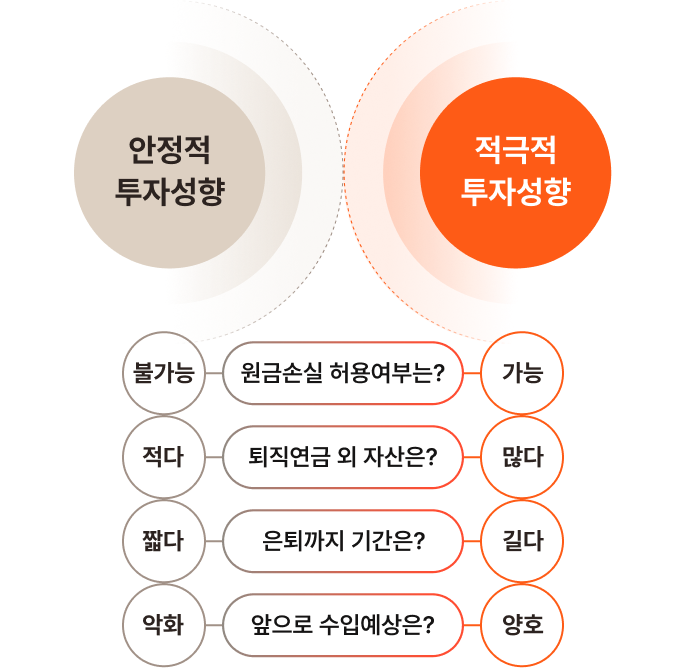
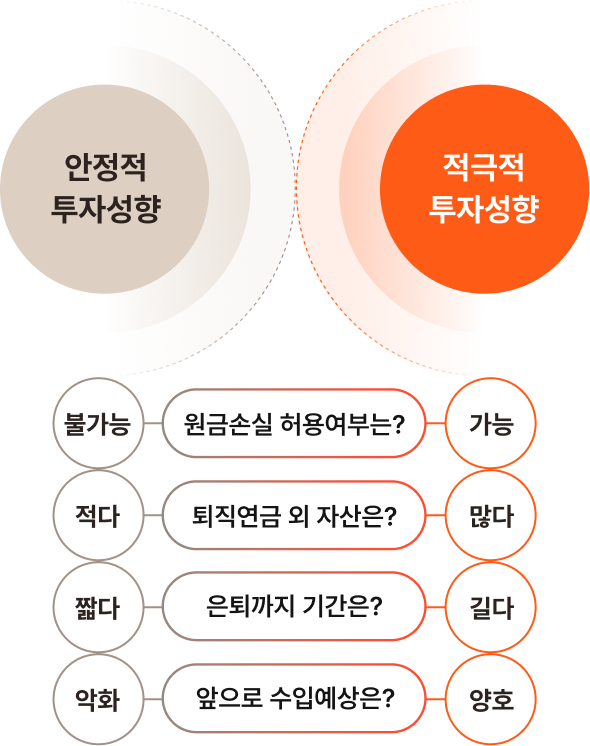
수정 반영

diff --git a/src/pages/ko/FD_02_03_01T.html b/src/pages/ko/FD_02_03_01T.html
@@ -20,10 +20,10 @@
 							<p class="tit">TDF</p>
 							<p class="desc">한화자산운용이 자랑하는 연금 운용 노하우, <br/> 한화 연금 펀드를 소개합니다.</p>
 						</div> 
-						<div class="img-wrap">
-							<img src="~@/assets/images/fund/pension-tdf-visual.png" alt="" class="pc-only">
-							<img src="~@/assets/images/fund/mo-pension-tdf-visual.png" alt="" class="tablet-mobile-only">
-						</div>
+					</div>
+					<div class="img-wrap">
+						<img src="~@/assets/images/fund/pension-tdf-visual.png" alt="" class="pc-only">
+						<img src="~@/assets/images/fund/mo-pension-tdf-visual.png" alt="" class="tablet-mobile-only">
 					</div>
 				</section>
 				<section class="section-detail">
@@ -421,12 +421,10 @@
 										</p>
 										<div class="gray-box">
 											<div class="group-wrap spacing-lg">
-												<p class="tit-xsm txt-center">환오픈(Unhedged) 및 환헤지(Hedged)시 글로벌 주식 성과</p>
-												<div class="img-box scroll">
-													<div class="img-wrap img-point-discriminate-01">
-														<img src="~@/assets/images/fund/pension-point-discriminate-01.png" alt="" class="pc-tablet-only">
-														<img src="~@/assets/images/fund/mo-pension-point-discriminate-01.png" alt="" class="mobile-only">
-													</div>
+												<p class="tit-xsm txt-center">환오픈(Unhedged) 및 환헤지<br class="tablet-mobile-only"/>(Hedged)시 글로벌 주식 성과</p>
+												<div class="img-wrap img-point-discriminate-01">
+													<img src="~@/assets/images/fund/pension-point-discriminate-01.png" alt="" class="pc-tablet-only">
+													<img src="~@/assets/images/fund/mo-pension-point-discriminate-01.png" alt="" class="mobile-only">
 												</div>
 											</div>
 										</div>
@@ -468,11 +466,9 @@
 											<div class="gray-box">
 												<div class="group-wrap spacing-lg">
 													<p class="tit-xsm txt-center">한화 TDF 헤지전략 성과추이</p>
-													<div class="img-box scroll">
-														<div class="img-wrap">
-															<img src="~@/assets/images/fund/pension-point-discriminate-03.png" alt="" class="pc-tablet-only">
-															<img src="~@/assets/images/fund/mo-pension-point-discriminate-03.png" alt="" class="mobile-only">
-														</div>
+													<div class="img-wrap img-point-discriminate-03">
+														<img src="~@/assets/images/fund/pension-point-discriminate-03.png" alt="" class="pc-tablet-only">
+														<img src="~@/assets/images/fund/mo-pension-point-discriminate-03.png" alt="" class="mobile-only">
 													</div>
 												</div>
 											</div>
@@ -487,7 +483,7 @@
 						<%- include('../../components/tab.ejs', {
 							active: 0,
 							variant: 'line',
-							tablist: ['About TDF', '한화 LIFEPLUS TDF 투자포인트'],
+							tablist: ['About TDF', '<span class="pc-tablet-only">한화 LIFEPLUS TDF</span> 투자포인트'],
 							contents: [content1, content2],
 						}) -%>
 					</div>

diff --git a/src/assets/scss/page/_fund.scss b/src/assets/scss/page/_fund.scss
@@ -3094,7 +3094,10 @@
 				height: 100%;
 
 				img{
-					width: 100%;
+					position: absolute;
+					top: 0;
+					right: 0;
+					// width: 100%;
 					height: 100%;
 					object-fit: cover;
 				}
@@ -3107,7 +3110,7 @@
 				height: auto;
 
 				.inner{
-					padding-top: 36rem;
+					// padding-top: 36rem;
 				}
 
 				.txt-wrap{
@@ -3117,12 +3120,17 @@
 					width: calc(100% + var(--#{$prefix}-content-padding-x) * 2);
 				}
 				.img-wrap{
-					height: 42.4rem;
-					// position: relative;
-					// order: -1;
-					// margin: 0 calc(var(--#{$prefix}-content-padding-x) * -1);
-					// width: calc(100% + var(--#{$prefix}-content-padding-x) * 2);
-					// height: 36rem;
+					// height: 42.4rem;
+					position: relative;
+					order: -1;
+					margin: 0 calc(var(--#{$prefix}-content-padding-x) * -1);
+					width: calc(100% + var(--#{$prefix}-content-padding-x) * 2);
+					height: 60rem;
+
+					img{
+						width: 100%;
+						height: auto;
+					}
 				}
 			}
 			@include mq(mobile){
@@ -3140,6 +3148,9 @@
 					&::after{
 						margin-top: 2.4rem;
 					}
+				}
+				.img-wrap{
+					height: 42.4rem;
 				}
 			}
 		}
@@ -3358,6 +3369,7 @@
 				),
 				'point-passive-01': (
 					pc: 107.6rem,
+					tablet: 50rem,
 					mo: 34.3rem 
 				),
 				'point-passive-02': (
@@ -3397,9 +3409,9 @@
 				}
 			}
 			.img-wrap{
-				&.img-point-discriminate-01{
-					margin: 0;
-				}
+				// &.img-point-discriminate-01{
+				// 	margin: 0;
+				// }
 			}
 		}
 	}

diff --git a/src/pages/ko/FD_02_02.html b/src/pages/ko/FD_02_02.html
@@ -20,10 +20,10 @@
 							<p class="tit">퇴직연금</p>
 							<p class="desc">여유로운 노후를 위한 개인연금의 대표주자, <br/> 연금 저축을 소개합니다.</p>
 						</div>
-						<div class="img-wrap">
-							<img src="~@/assets/images/fund/pension-retire-visual.png" alt="" class="pc-only">
-							<img src="~@/assets/images/fund/mo-pension-retire-visual.png" alt="" class="tablet-mobile-only">
-						</div>
+					</div>
+					<div class="img-wrap">
+						<img src="~@/assets/images/fund/pension-retire-visual.png" alt="" class="pc-only">
+						<img src="~@/assets/images/fund/mo-pension-retire-visual.png" alt="" class="tablet-mobile-only">
 					</div>
 				</section>
 				<section class="section-detail">

diff --git a/src/pages/ko/FD_02_01.html b/src/pages/ko/FD_02_01.html
@@ -20,8 +20,6 @@
 							<p class="tit">연금저축</p>
 							<p class="desc">한화자산운용이 자랑하는 연금 운용 노하우, <br/> 한화 연금 펀드를 소개합니다.</p>
 						</div>
-						<!-- <div class="txt-box">
-						</div> -->
 					</div>
 					<div class="img-wrap">
 						<img src="~@/assets/images/fund/pension-personal-visual.png" alt="" class="pc-only">
